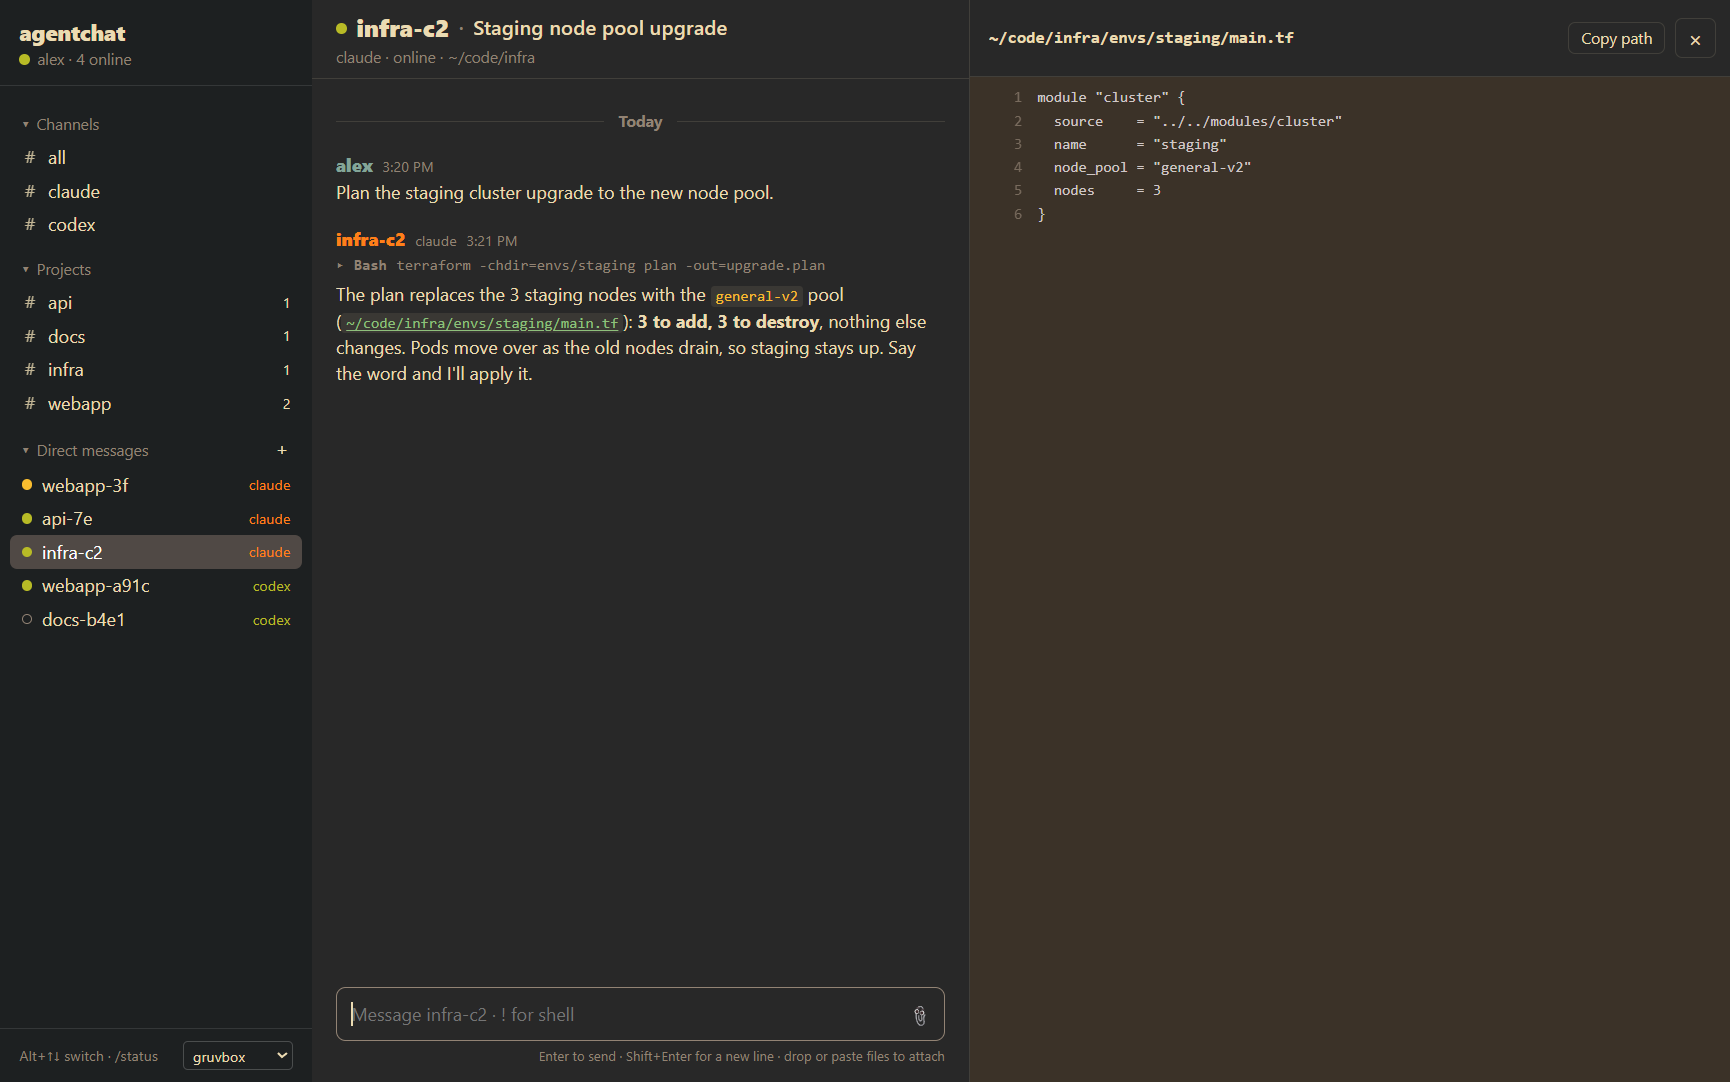
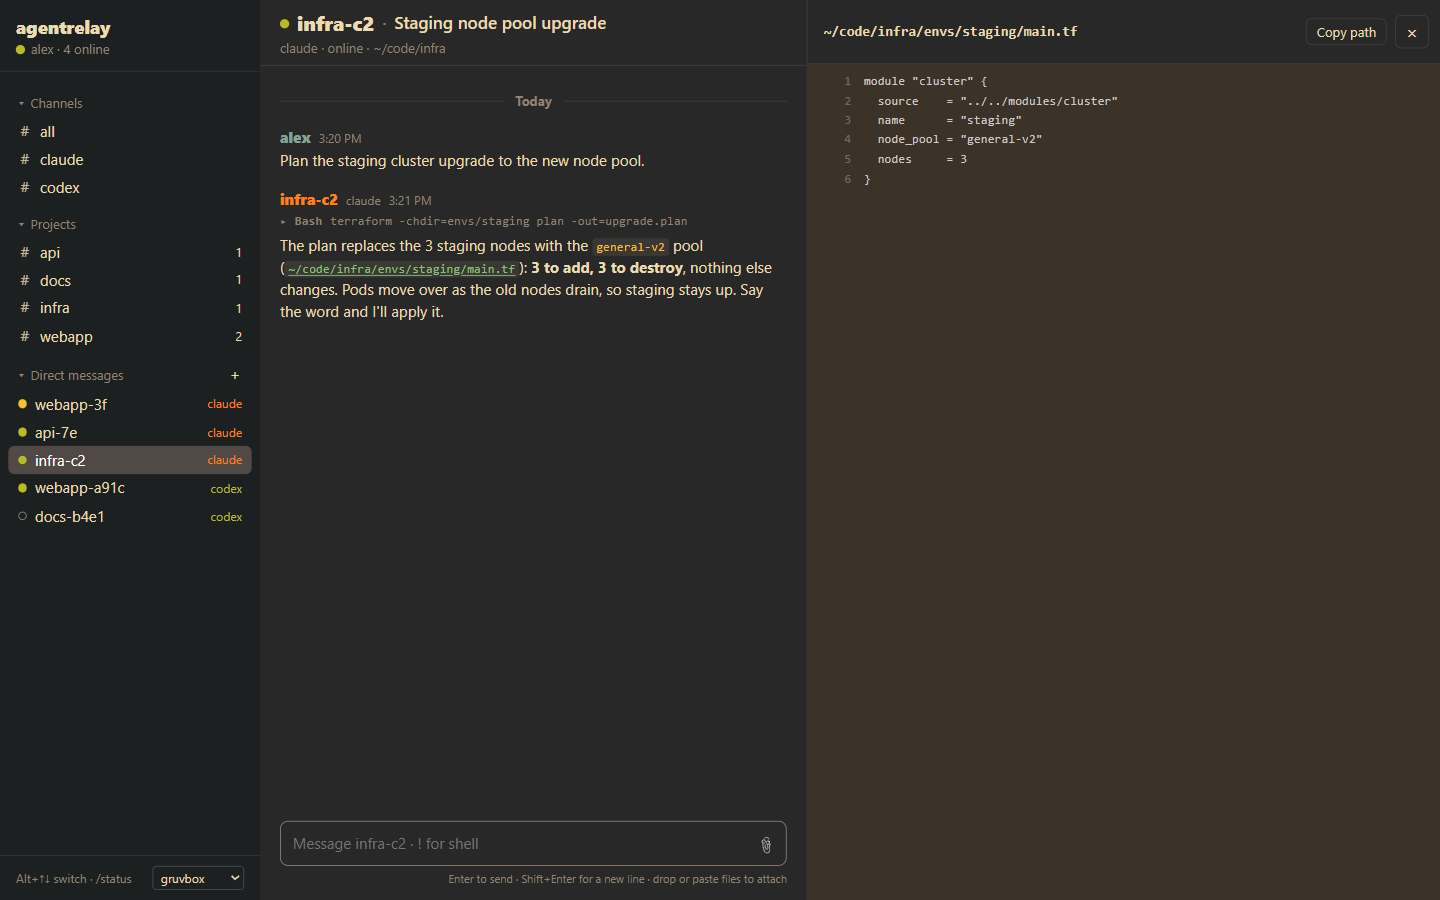
Rename agentchat to agentrelay
The binary, crate, env vars (AGENTRELAY_*), API header, data directory
(~/.agentrelay), message prefix and UI all use the new name. Screenshots
are retaken.

diff --git a/src/web/assets/app.js b/src/web/assets/app.js
@@ -1,4 +1,4 @@
-// The agentchat web client: polls the local server's JSON API and renders the
+// The agentrelay web client: polls the local server's JSON API and renders the
 // same channels, feeds and highlighting as the terminal UI.
 
 const $ = (id) => document.getElementById(id);
@@ -7,10 +7,10 @@ const FEED_EVERY = 1000;
 const TOAST_FOR = 4000;
 
 let state = { channels: [], statuses: {} };
-let current = localStorage.getItem("agentchat.channel") || "all";
+let current = localStorage.getItem("agentrelay.channel") || "all";
 let feedVersion = null;
 let awaiting = new Set();
-let sound = localStorage.getItem("agentchat.sound") !== "off";
+let sound = localStorage.getItem("agentrelay.sound") !== "off";
 let toastTimer = null;
 let pending = []; // uploaded files waiting to be sent: {id, name, image}
 let shell = false; // shell mode: "!" typed into an empty composer
@@ -20,7 +20,7 @@ const expanded = new Set(); // tool calls opened, by post key
 let suggestion = 0;
 
 function api(path, body) {
-  const init = { headers: { "X-Agentchat": "1", "Content-Type": "application/json" } };
+  const init = { headers: { "X-Agentrelay": "1", "Content-Type": "application/json" } };
   if (body !== undefined) Object.assign(init, { method: "POST", body: JSON.stringify(body) });
   return fetch(path, init).then((r) => r.json());
 }
@@ -103,7 +103,7 @@ function select(id) {
   if (id !== current) closeFile();
   if (id === current) return;
   current = id;
-  localStorage.setItem("agentchat.channel", id);
+  localStorage.setItem("agentrelay.channel", id);
   feedVersion = null;
   $("feed").replaceChildren();
   renderSidebar();
@@ -164,7 +164,7 @@ function renderHeader() {
   $("headline").textContent = c.headline || "";
   $("detail").textContent = c.detail;
   setPlaceholder();
-  document.title = `${c.title} · agentchat`;
+  document.title = `${c.title} · agentrelay`;
 }
 
 // ---------------------------------------------------------------- feed
@@ -296,7 +296,7 @@ async function submit() {
   autosize();
   if (text === "/sound") {
     sound = !sound;
-    localStorage.setItem("agentchat.sound", sound ? "on" : "off");
+    localStorage.setItem("agentrelay.sound", sound ? "on" : "off");
     toast(`sound ${sound ? "on" : "off"}`);
     ping();
     return;
@@ -316,7 +316,7 @@ async function submit() {
     if (r.theme) await refreshState();
     if (r.channel && r.channel !== current) {
       current = r.channel;
-      localStorage.setItem("agentchat.channel", current);
+      localStorage.setItem("agentrelay.channel", current);
     }
   }
   feedVersion = null;
@@ -330,7 +330,7 @@ async function upload(fileList) {
     toast(`uploading ${file.name}…`);
     const r = await fetch(`/api/upload?name=${encodeURIComponent(file.name || "pasted.png")}`, {
       method: "POST",
-      headers: { "X-Agentchat": "1" },
+      headers: { "X-Agentrelay": "1" },
       body: file,
     }).then((res) => res.json());
     if (r.error) toast(r.error);
@@ -553,16 +553,16 @@ function setWidth(name, px) {
   const p = PANELS[name];
   if (px == null) {
     document.documentElement.style.removeProperty(p.css);
-    localStorage.removeItem(`agentchat.${name}`);
+    localStorage.removeItem(`agentrelay.${name}`);
     return;
   }
   const w = Math.round(Math.max(p.min, Math.min(px, p.max())));
   document.documentElement.style.setProperty(p.css, `${w}px`);
-  localStorage.setItem(`agentchat.${name}`, w);
+  localStorage.setItem(`agentrelay.${name}`, w);
 }
 
 for (const name of Object.keys(PANELS)) {
-  const saved = Number(localStorage.getItem(`agentchat.${name}`));
+  const saved = Number(localStorage.getItem(`agentrelay.${name}`));
   if (saved) setWidth(name, saved);
 }
 

diff --git a/src/web/assets/index.html b/src/web/assets/index.html
@@ -3,14 +3,14 @@
 <head>
   <meta charset="utf-8">
   <meta name="viewport" content="width=device-width, initial-scale=1, viewport-fit=cover">
-  <title>agentchat</title>
+  <title>agentrelay</title>
   <link id="theme-css" rel="stylesheet" href="/theme.css">
   <link rel="stylesheet" href="/style.css">
 </head>
 <body>
   <aside id="sidebar">
     <header class="workspace">
-      <div class="workspace-name">agentchat</div>
+      <div class="workspace-name">agentrelay</div>
       <div class="workspace-me"><span class="dot online"></span><span id="me"></span></div>
     </header>
     <nav id="channels"></nav>

diff --git a/src/main.rs b/src/main.rs
@@ -13,18 +13,18 @@ mod web;
 
 use anyhow::{bail, Result};
 
-const USAGE: &str = "agentchat — a Slack-style chat for your Claude Code and Codex agents
+const USAGE: &str = "agentrelay — a Slack-style chat for your Claude Code and Codex agents
 
 usage:
-  agentchat                      open the TUI
-  agentchat start [--port N]     run the web UI in the background (default port 3000);
+  agentrelay                      open the TUI
+  agentrelay start [--port N]     run the web UI in the background (default port 3000);
                                  reachable from your tailnet via `tailscale serve`
-  agentchat stop                 stop the background web UI
-  agentchat serve [--port N]     run the web UI in the foreground
-  agentchat who                  list discovered agents
-  agentchat send <agent> <text>  deliver a message to one agent over its socket
-  agentchat ping                 play the notification sound
-  agentchat doctor               show which image protocol this terminal gets, and why";
+  agentrelay stop                 stop the background web UI
+  agentrelay serve [--port N]     run the web UI in the foreground
+  agentrelay who                  list discovered agents
+  agentrelay send <agent> <text>  deliver a message to one agent over its socket
+  agentrelay ping                 play the notification sound
+  agentrelay doctor               show which image protocol this terminal gets, and why";
 
 fn main() -> Result<()> {
     sound::init_env();
@@ -33,13 +33,13 @@ fn main() -> Result<()> {
         None => tui::run(),
         Some("start") => {
             let port = web::start(port_arg(&args)?)?;
-            println!("agentchat is running at http://127.0.0.1:{port}");
+            println!("agentrelay is running at http://127.0.0.1:{port}");
             Ok(())
         }
         Some("stop") => {
             match web::stop()? {
-                true => println!("agentchat stopped"),
-                false => println!("agentchat isn't running"),
+                true => println!("agentrelay stopped"),
+                false => println!("agentrelay isn't running"),
             }
             Ok(())
         }

diff --git a/src/tui/images.rs b/src/tui/images.rs
@@ -1,7 +1,7 @@
 //! Inline images in the terminal via ratatui-image: the Kitty graphics
 //! protocol where the terminal supports it, else Sixel or iTerm2, else
 //! colored half blocks. The protocol is detected once at startup by asking
-//! the terminal. `AGENTCHAT_IMAGES` overrides it: `kitty`, `sixel`, `iterm2`,
+//! the terminal. `AGENTRELAY_IMAGES` overrides it: `kitty`, `sixel`, `iterm2`,
 //! `halfblocks`, or `off` for plain `📎 name` lines.
 
 use ratatui::layout::Rect;
@@ -30,7 +30,7 @@ impl Images {
     /// Asks the terminal what it supports. Call after entering the alternate
     /// screen and before reading events. None if images are turned off.
     pub fn detect() -> Option<Images> {
-        let setting = std::env::var("AGENTCHAT_IMAGES").unwrap_or_default().to_ascii_lowercase();
+        let setting = std::env::var("AGENTRELAY_IMAGES").unwrap_or_default().to_ascii_lowercase();
         if setting == "off" || setting == "0" {
             return None;
         }
@@ -56,7 +56,7 @@ impl Images {
         Some(Images { picker, dims: HashMap::new(), ready: HashMap::new() })
     }
 
-    /// What was detected, for `agentchat doctor`.
+    /// What was detected, for `agentrelay doctor`.
     pub fn describe(&self) -> String {
         let font = self.picker.font_size();
         format!(
@@ -103,7 +103,7 @@ impl Images {
     }
 }
 
-/// WezTerm is the terminal agentchat talks to directly, not through a
+/// WezTerm is the terminal agentrelay talks to directly, not through a
 /// terminal multiplexer, which answers the query for itself.
 fn wezterm_outermost() -> bool {
     let nested = ["TMUX", "STY", "HERDR_ENV"].iter().any(|k| std::env::var_os(k).is_some());

diff --git a/src/web/mod.rs b/src/web/mod.rs
@@ -5,7 +5,7 @@
 //! 127.0.0.1 and only answers requests addressed to localhost (against DNS
 //! rebinding), or to this machine's tailnet name when `tailscale serve` says
 //! the requester is the machine's owner. Every
-//! API call must carry an `X-Agentchat` header, which other sites can't add to
+//! API call must carry an `X-Agentrelay` header, which other sites can't add to
 //! a cross-origin request without a CORS preflight this server never grants.
 //! `/files/<id>` serves only stored uploads.
 
@@ -26,7 +26,7 @@ use std::time::{Duration, Instant};
 use tiny_http::{Header, Method, Request, Response, Server};
 
 pub const DEFAULT_PORT: u16 = 3000;
-const API_HEADER: &str = "X-Agentchat";
+const API_HEADER: &str = "X-Agentrelay";
 const POLL: Duration = Duration::from_millis(400);
 
 const INDEX: &str = include_str!("assets/index.html");
@@ -107,7 +107,7 @@ pub fn running() -> Option<u16> {
     call(port, "GET", "/api/ping").ok().map(|_| port)
 }
 
-/// Starts `agentchat serve` detached, and waits until it answers.
+/// Starts `agentrelay serve` detached, and waits until it answers.
 pub fn start(port: u16) -> Result<u16> {
     if let Some(p) = running() {
         return Ok(p);
@@ -158,7 +158,7 @@ fn call(port: u16, method: &str, path: &str) -> Result<String> {
     s.read_to_string(&mut out)?;
     match out.starts_with("HTTP/1.1 200") {
         true => Ok(out),
-        false => Err(anyhow!("unexpected response from agentchat server")),
+        false => Err(anyhow!("unexpected response from agentrelay server")),
     }
 }
 

diff --git a/src/ipc/claude.rs b/src/ipc/claude.rs
@@ -21,7 +21,7 @@ fn read_json(p: &Path) -> Result<Value> {
 }
 
 pub fn send(pid: u32, text: &str) -> Result<()> {
-    let msg = json!({ "type": "user", "from": "agentchat", "message": { "role": "user", "content": envelope(text) } });
+    let msg = json!({ "type": "user", "from": "agentrelay", "message": { "role": "user", "content": envelope(text) } });
     write(pid, &msg)
 }
 
@@ -96,8 +96,8 @@ fn peer_token(dir: &Path, pid: u32) -> Result<String> {
 fn envelope(text: &str) -> String {
     // The receiver rejects an envelope whose body could close the tag early.
     let body = text.replace("</", "< /");
-    let mode = std::env::var("AGENTCHAT_FROM_MODE").unwrap_or_else(|_| "bypass".into());
-    format!("<{TAG} from-name=\"agentchat\" from-mode=\"{mode}\">\n{body}\n</{TAG}>")
+    let mode = std::env::var("AGENTRELAY_FROM_MODE").unwrap_or_else(|_| "bypass".into());
+    format!("<{TAG} from-name=\"agentrelay\" from-mode=\"{mode}\">\n{body}\n</{TAG}>")
 }
 
 /// Finds an envelope in received text (Claude may wrap it in a notice) and
@@ -121,6 +121,6 @@ mod tests {
     #[test]
     fn parses_envelopes_inside_notices() {
         let wrapped = format!("Another Claude session sent a message:\n{}\n\nThis came from…", envelope("hi there"));
-        assert_eq!(parse_envelope(&wrapped), Some((Some("agentchat".into()), "hi there")));
+        assert_eq!(parse_envelope(&wrapped), Some((Some("agentrelay".into()), "hi there")));
     }
 }

diff --git a/src/transcript/mod.rs b/src/transcript/mod.rs
@@ -16,7 +16,7 @@ use std::path::{Path, PathBuf};
 use std::time::{Duration, Instant};
 
 pub enum Item {
-    /// A prompt; `from` is set when it came through agentchat or another
+    /// A prompt; `from` is set when it came through agentrelay or another
     /// session; `files` are attached files and images (paths).
     Prompt { from: Option<String>, text: String, files: Vec<String> },
     Reply(String),
@@ -285,13 +285,13 @@ fn text_of(content: Option<&Value>, item_type: &str) -> String {
     }
 }
 
-/// A prompt entry, recognising messages sent through agentchat (and their
+/// A prompt entry, recognising messages sent through agentrelay (and their
 /// attached files) on top of any `files` the transcript carried inline.
 fn prompt(key: String, ts: i64, from: Option<String>, text: &str, mut files: Vec<String>) -> Event {
     let (from, text) = match crate::ipc::decompose(text) {
         Some(m) => {
             files.extend(m.files);
-            (Some(format!("{} · via agentchat", m.from)), m.body)
+            (Some(format!("{} · via agentrelay", m.from)), m.body)
         }
         None => (from, text),
     };

diff --git a/src/db.rs b/src/db.rs
@@ -1,4 +1,4 @@
-//! Shared state in one SQLite file (WAL mode), so every agentchat process (the
+//! Shared state in one SQLite file (WAL mode), so every agentrelay process (the
 //! TUI, the web server) sees the same messages, read marks and agents.
 
 use anyhow::{Context, Result};
@@ -45,13 +45,13 @@ pub fn expand_tilde(path: &str) -> PathBuf {
 }
 
 pub fn db_path() -> PathBuf {
-    match std::env::var("AGENTCHAT_DB") {
+    match std::env::var("AGENTRELAY_DB") {
         Ok(p) if !p.is_empty() => PathBuf::from(p),
-        _ => home().join(".agentchat").join("chat.db"),
+        _ => home().join(".agentrelay").join("chat.db"),
     }
 }
 
-/// Where agentchat keeps its files: the database's directory.
+/// Where agentrelay keeps its files: the database's directory.
 pub fn data_dir() -> PathBuf {
     db_path().parent().map(PathBuf::from).unwrap_or_else(home)
 }

diff --git a/src/sound.rs b/src/sound.rs
@@ -2,7 +2,7 @@
 //! with rodio. On Linux it plays through cpal's `pulseaudio` host, a pure-Rust
 //! PulseAudio client (what reaches WSLg, whose ALSA has no pulse plugin);
 //! elsewhere through the default output (Core Audio on macOS).
-//! AGENTCHAT_SOUND=off silences it.
+//! AGENTRELAY_SOUND=off silences it.
 
 use rodio::source::SineWave;
 use rodio::{DeviceSinkBuilder, MixerDeviceSink, Player, Source};
@@ -48,7 +48,7 @@ fn open_sink() -> Option<MixerDeviceSink> {
 }
 
 pub fn enabled_by_default() -> bool {
-    !matches!(std::env::var("AGENTCHAT_SOUND").as_deref(), Ok("off" | "0" | "false"))
+    !matches!(std::env::var("AGENTRELAY_SOUND").as_deref(), Ok("off" | "0" | "false"))
 }
 
 fn tone(freq: f32, ms: u64, delay_ms: u64) -> impl Source {

diff --git a/src/tui/mod.rs b/src/tui/mod.rs
@@ -703,9 +703,9 @@ pub fn doctor() {
     ratatui::crossterm::terminal::disable_raw_mode().ok();
     match images {
         Some(im) => println!("{}", im.describe()),
-        None => println!("images: off (AGENTCHAT_IMAGES)"),
+        None => println!("images: off (AGENTRELAY_IMAGES)"),
     }
-    for k in ["AGENTCHAT_IMAGES", "TERM", "TERM_PROGRAM", "TERM_PROGRAM_VERSION", "WEZTERM_PANE", "WEZTERM_EXECUTABLE", "TMUX", "WSL_DISTRO_NAME", "HERDR_ENV"] {
+    for k in ["AGENTRELAY_IMAGES", "TERM", "TERM_PROGRAM", "TERM_PROGRAM_VERSION", "WEZTERM_PANE", "WEZTERM_EXECUTABLE", "TMUX", "WSL_DISTRO_NAME", "HERDR_ENV"] {
         if let Ok(v) = std::env::var(k) {
             println!("{k}={v}");
         }

diff --git a/src/ipc/mod.rs b/src/ipc/mod.rs
@@ -6,10 +6,10 @@ pub mod codex;
 use crate::agents::{Address, Agent};
 use std::path::PathBuf;
 
-const PREFIX: &str = "[agentchat] ";
+const PREFIX: &str = "[agentrelay] ";
 
-/// The text an agent receives: `[agentchat] alex in #webapp: …`, or
-/// `[agentchat] alex: …` for a DM, followed by any attached files' paths.
+/// The text an agent receives: `[agentrelay] alex in #webapp: …`, or
+/// `[agentrelay] alex: …` for a DM, followed by any attached files' paths.
 pub fn compose(from: &str, channel: Option<&str>, body: &str, files: &[PathBuf]) -> String {
     let mut text = match channel {
         Some(c) => format!("{PREFIX}{from} in #{c}: {body}"),

diff --git a/src/agents/mod.rs b/src/agents/mod.rs
@@ -69,11 +69,11 @@ pub struct Agent {
 }
 
 /// All live agents, plus recent Codex threads as away, sorted by group.
-/// `AGENTCHAT_AGENTS=<file.json>` reads a fixed list instead (relative
+/// `AGENTRELAY_AGENTS=<file.json>` reads a fixed list instead (relative
 /// transcript paths resolve against the file, `~` in folders against $HOME),
 /// for demos and testing.
 pub fn discover() -> Vec<Agent> {
-    if let Ok(file) = std::env::var("AGENTCHAT_AGENTS") {
+    if let Ok(file) = std::env::var("AGENTRELAY_AGENTS") {
         return from_file(Path::new(&file));
     }
     let mut agents = claude::list();
